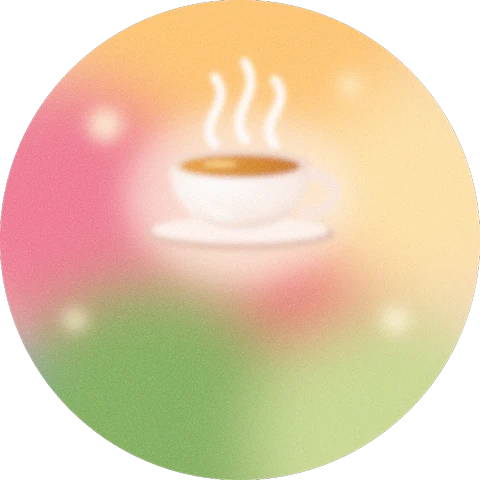
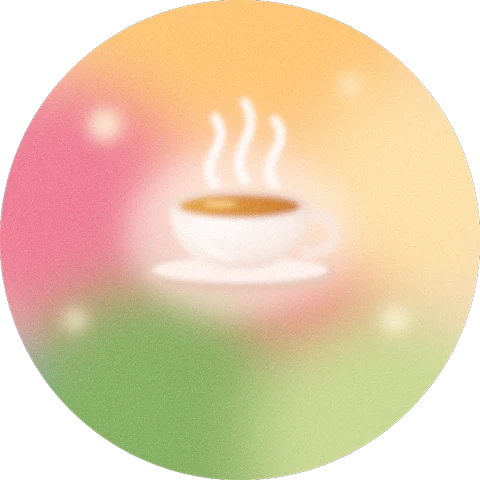
Explore bubbles, cleaner: names moved under the orbs in ink (no white text, dark shading or coloured rims on the art), a pearl sheen and white hairline on each orb; new painted orbs for Breathe (soft lungs) and Balance hormones (soft yin-yang)

Changed region(s): [[0.25, 0.0938, 0.7188, 0.6875]]

diff --git a/sw.js b/sw.js
@@ -1,5 +1,5 @@
 // Offline cache for the app shell. Bump VERSION when shipping changes.
-const VERSION = 'uts-v1351';
+const VERSION = 'uts-v1353';
 const SHELL = ['./', './index.html', './js/lotus.js', './styles.css', './manifest.json', './icons/icon-192.png', './icons/icon-512.png', './icons/apple-touch-icon.png', './icons/icon-64.png', './icons/icon-32.png', './icons/icon-maskable-512.png', './fonts/ballet-latin.woff2', './fonts/ballet-latin-ext.woff2',
   './js/app.js', './js/data.js', './js/cycle.js', './js/legal.js', './js/i18n.js', './js/icons.js', './js/cosmic.js', './js/astro.js', './js/moonguide.js', './js/moon3d.js', './js/figure.js', './js/figure3d.js', './js/torso.js', './js/torso3d.js', './js/photos.js', './js/seasonal.js', './js/world.js', './js/ground.js', './js/athlete.js', './js/bodymap.js', './js/molecules.js', './js/welcome3d.js', './js/teacup3d.js', './js/sfx.js', './js/ticketmotion.js', './js/sun.js', './js/account.js', './js/config.js', './images/planet.jpg', './images/gate-rose.webp', './images/lotus-menstrual.webp', './images/lotus-follicular.webp', './images/lotus-ovulatory.webp', './images/lotus-luteal.webp', './images/breath-bud.webp', './images/breath-bloom.webp', './images/period.png', './images/partner-cinema.webp', './images/partner-hands.jpg', './images/ground-roots.jpg', './images/ground/golden-roots.webp', './images/pixel-aura-0.png', './images/pixel-aura-1.png', './images/pixel-aura-2.png', './images/pixel-aura-3.png', './images/sun-moon.webp', './images/sun-moon.mp4', './images/tea-ginger.webp', './images/sun-moon-poster.webp', './images/rhythm-sun.webp', './images/move-stardust.mp4', './images/move-stardust.webp', './images/move-meditate.webp', './images/move-walk.webp', './images/move-yoga.webp', './images/move-sport.webp', './images/move-pilates.webp', './images/move-hiit.webp', './images/move-lift.webp', './images/season-veg.webp', './images/season-fruit.webp', './images/stress-meditate.mp4', './images/stress-meditate.webp', './images/stress-breathe.mp4', './images/stress-breathe.webp', './images/forest-path.jpg', './images/welcome-forest.jpg', './images/welcome-leaves.webp', './images/welcome-forest-bare.jpg', './images/intro-forest.jpg', './images/forest-calm.jpg', './images/tile-meditate.webp', './images/tile-ground.webp', './images/tile-walk.webp', './images/tile-yoga.webp', './images/tile-sport.webp', './images/tile-pilates.webp', './images/tile-hiit.webp', './images/tile-lift.webp', './images/purpose-body.jpg', './images/purpose-conceive.jpg', './images/purpose-after.jpg', './images/purpose-after-feet.jpg', './images/period-food.webp', './images/plate.webp', './images/read-lilies.webp', './images/read-seasons.webp', './models/body2.glb', './models/teacup.glb', './models/matcha.glb', './models/greentea.glb', './images/cup-matcha.webp', './models/soup.glb', './images/dish-soup.webp', './models/pho.glb', './images/dish-pho.webp', './models/miso.glb', './images/dish-miso.webp', './models/stew.glb', './images/dish-stew.webp', './models/veg-plate.glb', './models/salad-a.glb', './images/dish-salad-a.webp', './models/salad-b.glb', './images/dish-salad-b.webp', './images/dish-veg.webp', './models/taco.glb', './images/dish-taco.webp', './models/gyro.glb', './images/dish-gyro.webp', './models/marrow.glb', './images/dish-marrow.webp', './models/curry.glb', './images/dish-curry.webp', './models/steak.glb', './images/dish-steak.webp', './models/sweet-potato.glb', './images/dish-sweet-potato.webp', './models/mint-tea.glb', './images/cup-mint.webp', './models/chamomile.glb', './images/cup-chamomile.webp', './models/hibiscus.glb', './models/latte.glb', './models/coffee.glb', './models/broth.glb', './models/cortisol.glb', './images/cortisol-mol.webp', './models/moon.glb', './images/cup-chai.webp', './images/cup-hibiscus.webp', './images/cup-glass.webp', './sounds/forest-stream.m4a', './images/herbs/astragalus.svg', './images/herbs/red-dates.svg', './images/herbs/ginger.svg', './images/herbs/clove.svg', './images/herbs/cinnamon.svg', './images/herbs/goji.svg', './images/herbs/reishi.svg', './images/herbs/chaga.svg', './images/herbs/he-shou-wu.svg', './images/drinks/broth.svg', './images/drinks/cacao.svg', './images/drinks/chamomile-tea.svg', './images/drinks/coconut-water.svg', './images/drinks/coffee.svg', './images/drinks/ginger-tea.svg', './images/drinks/green-juice.svg', './images/drinks/hibiscus-tea.svg', './images/drinks/iced-matcha.svg', './images/drinks/lemon-water.svg', './images/drinks/matcha-latte.svg', './images/drinks/matcha.svg', './images/drinks/mineral-water.svg', './images/drinks/nettle-tea.svg', './images/drinks/raspberry-leaf-tea.svg', './images/drinks/red-date-tea.svg', './images/emoji/iron-ore.svg', './images/emoji/log-cramps.svg', './images/emoji/log-pelvic-pain.svg', './images/emoji/log-joint-pain.svg', './images/emoji/log-constipation.svg', './images/emoji/log-acne.svg', './images/emoji/log-brain-fog.svg', './images/emoji/log-unusual-colour.svg', './images/emoji/amla.svg', './images/emoji/apricot.svg', './images/emoji/artichoke.svg', './images/emoji/asian-pear.svg', './images/emoji/bamboo-shoot.svg', './images/emoji/bean-sprouts.svg', './images/emoji/bitter-gourd.svg', './images/emoji/black-trumpet.svg', './images/emoji/blackberry.svg', './images/emoji/bottle-gourd.svg', './images/emoji/brussels-sprouts.svg', './images/emoji/burdock.svg', './images/emoji/button-mushroom.svg', './images/emoji/cardoon.svg', './images/emoji/cassava.svg', './images/emoji/cauliflower.svg', './images/emoji/celeriac.svg', './images/emoji/chanterelle.svg', './images/emoji/chard.svg', './images/emoji/chayote.svg', './images/emoji/cloudberry.svg', './images/emoji/cranberry.svg', './images/emoji/currants.svg', './images/emoji/custard-apple.svg', './images/emoji/daikon.svg', './images/emoji/dandelion.svg', './images/emoji/dragon-fruit.svg', './images/emoji/drumsticks.svg', './images/emoji/elderberry.svg', './images/emoji/enoki.svg', './images/emoji/feijoa.svg', './images/emoji/fiddlehead.svg', './images/emoji/green-plum.svg', './images/emoji/guava.svg', './images/emoji/horseradish.svg', './images/emoji/jackfruit.svg', './images/emoji/jamun.svg', './images/emoji/jerusalem-artichoke.svg', './images/emoji/kale.svg', './images/emoji/king-oyster.svg', './images/emoji/kohlrabi.svg', './images/emoji/korean-melon.svg', './images/emoji/leek.svg', './images/emoji/lingonberry.svg', './images/emoji/lions-mane.svg', './images/emoji/long-beans.svg', './images/emoji/loquat.svg', './images/emoji/lotus-root.svg', './images/emoji/lychee.svg', './images/emoji/mangosteen.svg', './images/emoji/morel.svg', './images/emoji/okra.svg', './images/emoji/oyster-mushroom.svg', './images/emoji/papaya.svg', './images/emoji/parsnip.svg', './images/emoji/passion-fruit.svg', './images/emoji/persimmon.svg', './images/emoji/plum.svg', './images/emoji/porcini.svg', './images/emoji/prickly-pear.svg', './images/emoji/rambutan.svg', './images/emoji/raspberry.svg', './images/emoji/ridge-gourd.svg', './images/emoji/rosehip.svg', './images/emoji/salsify.svg', './images/emoji/samphire.svg', './images/emoji/sea-buckthorn.svg', './images/emoji/shiitake.svg', './images/emoji/spring-onion.svg', './images/emoji/starfruit.svg', './images/emoji/tamarind.svg', './images/emoji/taro.svg', './images/emoji/turnip.svg', './images/emoji/watercress.svg', './images/emoji/yuzu.svg', './images/emoji/almonds.webp', './images/emoji/asparagus.webp', './images/emoji/beetroot.webp', './images/emoji/black-sesame.webp', './images/emoji/cardamom.webp', './images/emoji/chia.webp', './images/emoji/cinnamon.webp', './images/emoji/fennel-seeds.webp', './images/emoji/fennel.webp', './images/emoji/fig.webp', './images/emoji/flaxseed.webp', './images/emoji/goji.webp', './images/emoji/hemp.webp', './images/emoji/liver.webp', './images/emoji/pomegranate.webp', './images/emoji/pumpkin-seeds.webp', './images/emoji/quince.webp', './images/emoji/radish.webp', './images/emoji/red-dates.webp', './images/emoji/rhubarb.webp', './images/emoji/sesame.webp', './images/emoji/sunflower-seeds.webp', './images/emoji/tahini.webp', './images/emoji/turmeric.webp', './images/emoji/walnuts.webp', './images/emoji/black-seed-oil.svg', './images/emoji/cacao.svg', './images/emoji/water.svg', './images/emoji/black-pepper.svg', './images/emoji/cumin.svg', './images/emoji/curry.svg', './images/emoji/dates.svg', './images/emoji/maple-syrup.svg', './images/emoji/mayonnaise.svg', './images/emoji/mustard.svg', './images/emoji/nutmeg.svg', './images/emoji/nutritional-yeast.svg', './images/emoji/paprika.svg', './images/emoji/tamari.svg', './images/emoji/toothpick.svg', './images/emoji/vanilla.svg', './images/bg/mist.webp', './images/bg/arch.webp', './images/bg/arch-band.webp', './images/bg/frame-band.webp', './images/bg/frame-top.webp', './images/bg/frame-bottom.webp', './images/bg/frame-side.webp', './images/bg/leaves.webp', './images/bg/lotus.webp', './images/bg/lotus-petals.webp', './images/bg/lotus-lines.webp', './images/bg/swirls.webp', './images/tea-glow-bg.webp', './images/herbs/astragalus-real.webp', './images/herbs/clove-real.webp', './images/herbs/chaga-real.webp', './images/herbs/reishi-real.webp', './images/herbs/he-shou-wu-photo.webp', './images/sf/astragalus.webp', './images/sf/elderberries.webp', './images/sf/walnuts.webp', './images/sf/iron.webp', './images/drinks/cup-covered.svg', './images/pets/bunny.svg', './images/pets/kitty.svg', './images/pets/bear.svg', './images/pets/panda.svg', './images/pets/fox.svg', './images/pets/frog.svg', './images/pets/chick.svg', './images/pets/hamster.svg'];
 

diff --git a/styles.css b/styles.css
@@ -8382,18 +8382,23 @@ img[src$="read-lilies.webp"] { object-fit: contain !important; object-position: 
 .hub .dpt.t-dish .dpt-g:has(.dish-ph) { height: 126px; display: grid; place-items: center; }
 
 /* Today › Explore: round photo bubbles in a 2-3-2 honeycomb (from the user's bubble reference); a coloured rim glows softly inside each, the name sits on the photo, and the bubbles float very slowly */
-.xp3 { margin: 4px 0 26px; }
-.xp3-r { display: flex; justify-content: center; }
-.xp3-r + .xp3-r { margin-top: -14px; }
-.xb { --d: calc((100% + 12px) / 3); position: relative; flex: none; width: var(--d); aspect-ratio: 1; margin: 0 -2px; padding: 0; border: 0; border-radius: 50%; overflow: hidden; cursor: pointer; background: #e9e2e4; isolation: isolate;
-  box-shadow: 0 14px 26px -12px rgba(32,48,26,.45); animation: xbFloat 7s ease-in-out infinite; animation-delay: calc(var(--i) * -1.1s); transition: transform .3s ease; }
-.xb img, .xb video { position: absolute; inset: 0; width: 100%; height: 100%; object-fit: cover; }
-.xb::before { content: ''; position: absolute; inset: 0; z-index: 1; border-radius: 50%; background: linear-gradient(to bottom, transparent 45%, rgba(20,24,18,.55)); }
-.xb::after { content: ''; position: absolute; inset: 0; z-index: 2; border-radius: 50%; box-shadow: inset 0 0 0 2px var(--rim), inset 0 0 22px 2px color-mix(in srgb, var(--rim) 70%, transparent); pointer-events: none; }
-.xb-t { position: absolute; z-index: 3; left: 0; right: 0; bottom: 22%; text-align: center; font: 500 14.5px/1.1 Outfit, sans-serif; color: #fff; letter-spacing: .01em; text-shadow: 0 1px 8px rgba(0,0,0,.45); }
-.xb:active { transform: scale(.96); }
+/* Explore: her painted orbs, left clean (no text on the art, no dark shading), a pearl sheen and a quiet name underneath */
+.xp3 { margin: 6px 0 26px; }
+.xp3-r { display: flex; justify-content: center; gap: 14px; }
+.xp3-r + .xp3-r { margin-top: 10px; }
+.xb { flex: none; width: calc((100% - 28px) / 3); padding: 0; border: 0; background: none; cursor: pointer; display: flex; flex-direction: column; align-items: center; gap: 9px; -webkit-tap-highlight-color: transparent; }
+.xb-o { position: relative; width: 100%; aspect-ratio: 1; border-radius: 50%; overflow: hidden; isolation: isolate; background: #efe6ea;
+  box-shadow: 0 0 0 1.5px rgba(255,255,255,.85), 0 16px 28px -16px rgba(48,64,35,.5), 0 4px 10px -6px rgba(48,64,35,.25);
+  animation: xbFloat 7s ease-in-out infinite; animation-delay: calc(var(--i) * -1.1s); transition: transform .35s cubic-bezier(.2,.8,.2,1); }
+.xb-o img, .xb-o video { position: absolute; inset: 0; width: 100%; height: 100%; object-fit: cover; }
+/* pearl sheen: a soft light from the top left, like glass over the painting */
+.xb-o::after { content: ''; position: absolute; inset: 0; border-radius: 50%; pointer-events: none;
+  background: radial-gradient(60% 45% at 30% 18%, rgba(255,255,255,.42), rgba(255,255,255,0) 70%);
+  box-shadow: inset 0 0 0 1px rgba(255,255,255,.35), inset 0 -10px 22px -10px rgba(48,64,35,.18); }
+.xb-t { font: 400 13.5px/1.2 Outfit, sans-serif; color: #304023; letter-spacing: .01em; text-align: center; }
+.xb:active .xb-o { transform: scale(.95); }
 @keyframes xbFloat { 0%, 100% { translate: 0 0; } 50% { translate: 0 -4px; } }
-@media (prefers-reduced-motion: reduce) { .xb { animation: none; } }
+@media (prefers-reduced-motion: reduce) { .xb-o { animation: none; } }
 
 /* Breathe › Daily calm reminder: a white card with a bell, her time in Doto with − and +, a stress pill and a switch */
 .crm { display: grid; grid-template-columns: auto 1fr auto; align-items: center; gap: 12px; margin: 12px 0 18px; padding: 14px 14px 14px 12px; border-radius: 24px; background: rgba(255,255,255,.88); border: 1px solid rgba(48,64,35,.1); box-shadow: 0 10px 26px -14px rgba(32,48,26,.3); }
@@ -16018,9 +16023,6 @@ html .view .section-title .link { white-space: nowrap; }
 .cs3 .cs2-ph { position: relative; z-index: 1; margin: 0; }
 .cs3 .cs2-b { margin-left: 60px; }
 
-/* Today › Explore (Round C): the name stays readable on bright photos (Balance hormones sat on a pink glow) */
-html .xb::before { background: linear-gradient(to bottom, transparent 32%, rgba(20,24,18,.66)); }
-html .xb-t { font-weight: 600; text-shadow: 0 1px 2px rgba(0,0,0,.45), 0 2px 12px rgba(0,0,0,.5); }
 
 /* Stress › Calm now (Round E): Breathe with me uses a real photo row like Ground yourself (no pink glow ball);
    the Fastest calm label reads like the Why today label beside it, not spaced capitals */

diff --git a/js/app.js b/js/app.js
@@ -2068,13 +2068,12 @@ function viewToday() {
 }
 // Explore: every button a full photo with a frosted label.
 function exploreGrid(info) {
-  // her own painted orbs (from Canva) with a little airbrushed motif: bee, ring of 28 days, two orbs balanced on her heart, a dandelion breathing out, a steaming cup
+  // her own painted orbs (from Canva) with a little airbrushed motif: bee, ring of 28 days, a soft yin-yang for balance, soft lungs on a calm lilac orb, a steaming cup
   const tiles = [['super', 'leaf', 'Superfoods', 'Spices & superfoods for your phase', 'images/xb/super.webp'], ['guide', 'chart', 'Cycle guide', `Day ${info.cd}, day by day`, 'images/xb/guide.webp'],
     ['relief', 'heart', 'Balance hormones', 'Step by step, fundamentals first', 'images/xb/relief.webp'],
     ['tea', 'cup', 'Tea guide', 'For every need', 'images/xb/tea.webp'], ['breathe', 'leaf', 'Breathe', 'Meditate & breathe', 'images/xb/breathe.webp']];
-  // round photo bubbles in a 3-2 honeycomb, each with its own coloured rim and the name on the photo
-  const rim = ['#a98bd0', '#7f9a4c', '#e08aa5', '#c98a52', '#6fa49a'];
-  const bub = ([to, ic, t, sub, img, vid], i) => `<button class="xb" data-action="${to === 'super' ? 'superGo' : 'nav'}" data-to="${to}" style="--i:${i};--rim:${rim[i]}" aria-label="${t}: ${sub}">${vid ? `<video class="dpt-vid" src="${vid}" poster="${img}" muted loop playsinline preload="none" aria-hidden="true"></video>` : `<img src="${img}" alt="" loading="lazy">`}<span class="xb-t">${t}</span></button>`;
+  // her painted orbs in a 3-2 row, clean art with the name underneath
+  const bub = ([to, ic, t, sub, img, vid], i) => `<button class="xb" data-action="${to === 'super' ? 'superGo' : 'nav'}" data-to="${to}" style="--i:${i}" aria-label="${t}: ${sub}"><span class="xb-o">${vid ? `<video class="dpt-vid" src="${vid}" poster="${img}" muted loop playsinline preload="none" aria-hidden="true"></video>` : `<img src="${img}" alt="" loading="lazy">`}</span><span class="xb-t">${t}</span></button>`;
   const rows = [tiles.slice(0, 3), tiles.slice(3)];
   let k = 0;
   return `<div class="xp3">${rows.map(r => `<div class="xp3-r">${r.map(x => bub(x, k++)).join('')}</div>`).join('')}</div>`;
